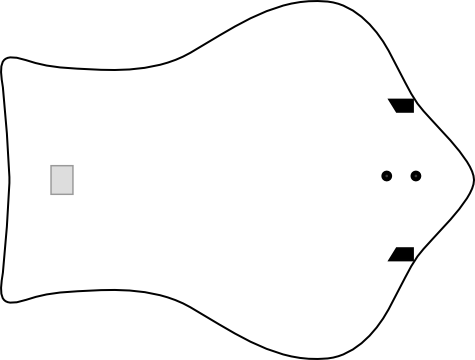
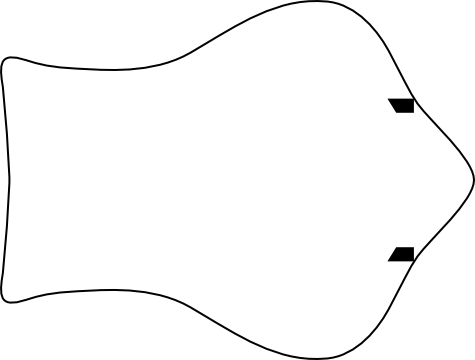
Updated finch layout

Changed region(s): [[0.0884, 0.4583, 0.1768, 0.55], [0.8547, 0.4583, 0.8842, 0.5194], [0.7958, 0.4583, 0.8253, 0.5194]]

diff --git a/java/code/supported-devices/finch/src/edu/cmu/ri/createlab/finch/expressionbuilder/controlpanel/FinchGUI.java b/java/code/supported-devices/finch/src/edu/cmu/ri/createlab/finch/expressionbuilder/controlpanel/FinchGUI.java
@@ -18,6 +18,7 @@ import edu.cmu.ri.createlab.terk.services.obstacle.SimpleObstacleDetectorService
 import edu.cmu.ri.createlab.terk.services.photoresistor.PhotoresistorService;
 import edu.cmu.ri.createlab.terk.services.thermistor.ThermistorService;
 import edu.cmu.ri.createlab.userinterface.util.ImageUtils;
+import edu.cmu.ri.createlab.userinterface.util.SpringLayoutUtilities;
 import edu.cmu.ri.createlab.userinterface.util.SwingUtils;
 import edu.cmu.ri.createlab.util.MultiLineLabel;
 import org.apache.log4j.Logger;
@@ -198,19 +199,23 @@ public final class FinchGUI extends DeviceGUI
 
    private JPanel createFinchGUI(final Map<String, ServiceControlPanel> serviceControlPanelMap, final Map<String, SortedMap<Integer, JCheckBox>> serviceDeviceToggleButtonMap)
       {
-          final JPanel orbsPanel = createVerticalButtonPanel(serviceControlPanelMap.get(FullColorLEDService.TYPE_ID),
+          final JPanel orbsPanel = createAlignedButtonPanel(serviceControlPanelMap.get(FullColorLEDService.TYPE_ID),
                   serviceDeviceToggleButtonMap.get(FullColorLEDService.TYPE_ID),
-                  false,
-                  BACKGROUND_COLOR, BOX_COLOR,
+                  0, false,
                   "image.white");
 
-      final JPanel buzzerPanel = createVerticalButtonPanel(serviceControlPanelMap.get(BuzzerService.TYPE_ID),
-                                                           serviceDeviceToggleButtonMap.get(BuzzerService.TYPE_ID),
-                                                            false,
-                                                           BACKGROUND_COLOR, BOX_COLOR,
-                                                           "image.white");
-      final JPanel motorsPanel = new JPanel();
-      motorsPanel.add(SwingUtils.createLabel("Open Loop Motors Panel"));
+      final JPanel buzzerPanel = createAlignedButtonPanel(serviceControlPanelMap.get(BuzzerService.TYPE_ID),
+                                                          serviceDeviceToggleButtonMap.get(BuzzerService.TYPE_ID),
+                                                          0, false,
+                                                          "image.white");
+      final JPanel motorsPanel1 = new JPanel();
+      motorsPanel1.add(SwingUtils.createLabel("Add Motor 1 Here"));
+      motorsPanel1.setBackground(BOX_COLOR);
+
+      final JPanel motorsPanel2 = new JPanel();
+      motorsPanel2.add(SwingUtils.createLabel("Add Motor 2 Here"));
+      motorsPanel2.setBackground(BOX_COLOR);
+
       /*
       TODO: add this
       final JPanel motorsPanel = createHorizontalButtonPanel(serviceControlPanelMap.get(OpenLoopVelocityControllableMotorService.TYPE_ID),
@@ -233,34 +238,46 @@ public final class FinchGUI extends DeviceGUI
           c.fill = GridBagConstraints.NONE;
           c.gridwidth = 1;
           c.gridheight = 1;
-          c.gridx = 0;
+          c.gridx = 1;
           c.gridy = 0;
-          c.weighty = .4;
-          c.weightx = 1.0;
-          c.anchor = GridBagConstraints.LINE_END;
-          c.insets = new Insets(0, 0, 0, 150);
-          panel.add(motorsPanel, c);
+          c.weighty = .5;
+          c.weightx = .35;
+          c.anchor = GridBagConstraints.FIRST_LINE_START;
+          c.insets = new Insets(30, 0, 0, 0);
+          panel.add(motorsPanel1, c);
 
           c.fill = GridBagConstraints.NONE;
           c.gridwidth = 1;
           c.gridheight = 1;
-          c.gridx = 0;
+          c.gridx = 1;
           c.gridy = 1;
-          c.weighty = .2;
+          c.weighty = .5;
+          c.weightx = .35;
           c.anchor = GridBagConstraints.LINE_END;
-          c.insets = new Insets(0, 0, 0, 150);
+          c.insets = new Insets(0, 0, 0, 10);
           panel.add(orbsPanel, c);
 
           c.fill = GridBagConstraints.NONE;
           c.gridwidth = 1;
           c.gridheight = 1;
           c.gridx = 0;
-          c.gridy = 2;
-          c.weighty = .4;
-          c.anchor = GridBagConstraints.LINE_END;
-          c.insets = new Insets(0, 0, 0, 150);
+          c.gridy = 1;
+          c.weighty = .5;
+          c.weightx = .65;
+          c.anchor = GridBagConstraints.LINE_START;
+          c.insets = new Insets(0, 20, 0, 0);
           panel.add(buzzerPanel, c);
 
+          c.fill = GridBagConstraints.NONE;
+          c.gridwidth = 1;
+          c.gridheight = 1;
+          c.gridx = 1;
+          c.gridy = 2;
+          c.weighty = .5;
+          c.weightx = .35;
+          c.anchor = GridBagConstraints.LAST_LINE_START;
+          c.insets = new Insets(0, 0, 30, 0);
+          panel.add(motorsPanel2, c);
 
           //Create Expression Block
           Dimension block_size = new Dimension(180, 120);
@@ -298,7 +315,7 @@ public final class FinchGUI extends DeviceGUI
 
           panel.setBounds(0, 0, board_size.width, board_size.height);
           finch_image.setBounds(0, 0, board_size.width, board_size.height);
-          expressionBlock.setBounds(50, board_size.height / 2 - block_size.height / 2, block_size.width, block_size.height);
+          expressionBlock.setBounds(130, board_size.height / 2 - block_size.height / 2, block_size.width, block_size.height);
 
 
           finch_image.setName("purpleElement");
@@ -393,32 +410,68 @@ public final class FinchGUI extends DeviceGUI
 
 
                    .addGroup(layout.createParallelGroup(GroupLayout.Alignment.LEADING)
-                           .addComponent(audio)
+                           .addComponent(buzzer)
                            .addComponent(bottomspacer1)
                                    //.addComponent(motor)
                            .addComponent(bottomspacer2)
                            .addComponent(triled)
                            .addComponent(bottomspacer3)
-                           .addComponent(buzzer))
+                           .addComponent(audio))
            );
 
            layout.setHorizontalGroup(layout.createParallelGroup(GroupLayout.Alignment.CENTER)
 
                   
                    .addGroup(layout.createSequentialGroup()
-                           .addComponent(audio)
+                           .addComponent(buzzer)
                            .addComponent(bottomspacer1)
                                    //.addComponent(motor)
                            .addComponent(bottomspacer2)
                            .addComponent(triled)
                            .addComponent(bottomspacer3)
-                           .addComponent(buzzer))
+                           .addComponent(audio))
            );
            icongroup.setName("iconGroup");
            return icongroup;
-       }    
-       
+       }
 
+      private JPanel createAlignedButtonPanel(final ServiceControlPanel serviceControlPanel,
+                                        final SortedMap<Integer, JCheckBox> checkBoxMap,
+                                        final int deviceId,
+                                        final boolean displayId,
+                                        final String imageName)
+       {
+           final JCheckBox checkBox = checkBoxMap.get(deviceId);
+           checkBox.setBackground(BOX_COLOR);
+           checkBox.setAlignmentY(Component.CENTER_ALIGNMENT);
+
+
+           Component numLabel = SwingUtils.createRigidSpacer(0);
+
+           if (displayId){
+               numLabel = SwingUtils.createTinyFontLabel(String.valueOf(deviceId + 1));
+           }
+
+           final JLabel icon = serviceControlPanel.getLabelImage(imageName);
+           final JPanel panel = new JPanel();
+           panel.setBackground(BOX_COLOR);
+
+           panel.setLayout(new BoxLayout(panel, BoxLayout.X_AXIS));
+           panel.add(icon);
+           panel.add(SwingUtils.createRigidSpacer(2));
+           panel.add(SwingUtils.createLabel(serviceControlPanel.getSingleName()));
+           if (displayId){
+           panel.add(SwingUtils.createRigidSpacer(2));
+           panel.add(SwingUtils.createLabel(String.valueOf(deviceId + 1)));
+           }
+           panel.add(SwingUtils.createRigidSpacer(2));
+           panel.add(checkBox);
+           panel.setName("iconTitle");
+
+           panel.setOpaque(true);
+           return panel;
+       }
+       
    public void setStageTitleField(JTextField textfield)
       {
           this.title = textfield;

diff --git a/java/code/core/src/edu/cmu/ri/createlab/expressionbuilder/controlpanel/AbstractServiceControlPanel.java b/java/code/core/src/edu/cmu/ri/createlab/expressionbuilder/controlpanel/AbstractServiceControlPanel.java
@@ -136,6 +136,7 @@ public abstract class AbstractServiceControlPanel implements ServiceControlPanel
       for (int i = 0; i < deviceCount; i++)
          {
          final ServiceControlPanelDevice serviceControlPanelDevice = createServiceControlPanelDevice(service, i);
+         //Todo: Check and see if the boolean above is correct default.
          if (serviceControlPanelDevice != null)
             {
             deviceMap.put(i, serviceControlPanelDevice);
@@ -145,6 +146,7 @@ public abstract class AbstractServiceControlPanel implements ServiceControlPanel
       }
 
    protected abstract ServiceControlPanelDevice createServiceControlPanelDevice(final Service service, final int deviceIndex);
+
 
    /**
     * Fetches the property specified by the given <code>propertyKey</code> from the given <code>service</code> and

diff --git a/java/code/core/src/edu/cmu/ri/createlab/expressionbuilder/controlpanel/services/led/FullColorLEDServiceControlPanel.java b/java/code/core/src/edu/cmu/ri/createlab/expressionbuilder/controlpanel/services/led/FullColorLEDServiceControlPanel.java
@@ -272,8 +272,8 @@ public final class FullColorLEDServiceControlPanel extends AbstractServiceContro
          iconTitle.add(SwingUtils.createLabel(String.valueOf(deviceIndex + 1)));
          iconTitle.setName("iconTitle");
 
-         iconTitle.setAlignmentX(Component.RIGHT_ALIGNMENT);
-         colorPanel.setAlignmentX(Component.CENTER_ALIGNMENT);
+         iconTitle.setAlignmentX(Component.LEFT_ALIGNMENT);
+         colorPanel.setAlignmentX(Component.LEFT_ALIGNMENT);
          panel.setLayout(new BoxLayout(panel, BoxLayout.Y_AXIS));
          panel.add(iconTitle);
          panel.add(colorPanel);

diff --git a/java/code/core/src/edu/cmu/ri/createlab/expressionbuilder/controlpanel/services/analog/AnalogInputsServiceControlPanel.java b/java/code/core/src/edu/cmu/ri/createlab/expressionbuilder/controlpanel/services/analog/AnalogInputsServiceControlPanel.java
@@ -77,7 +77,12 @@ public final class AnalogInputsServiceControlPanel extends AbstractServiceContro
       return RESOURCES.getString("control-panel.title");
       }
 
-   public String getShortDisplayName()
+       public String getSingleName()
+       {
+           return RESOURCES.getString("control-panel.name");
+       }
+
+       public String getShortDisplayName()
       {
       return RESOURCES.getString("control-panel.short-title");
       }

diff --git a/java/code/core/src/edu/cmu/ri/createlab/expressionbuilder/controlpanel/services/obstacle/SimpleObstacleDetectorServiceControlPanel.java b/java/code/core/src/edu/cmu/ri/createlab/expressionbuilder/controlpanel/services/obstacle/SimpleObstacleDetectorServiceControlPanel.java
@@ -81,7 +81,12 @@ public final class SimpleObstacleDetectorServiceControlPanel extends AbstractSer
       return RESOURCES.getString("control-panel.title");
       }
 
-   public String getShortDisplayName()
+       public String getSingleName()
+       {
+           return RESOURCES.getString("control-panel.name");
+       }
+
+       public String getShortDisplayName()
       {
       return RESOURCES.getString("control-panel.short-title");
       }

diff --git a/java/code/core/src/edu/cmu/ri/createlab/expressionbuilder/controlpanel/services/photoresistor/PhotoresistorServiceControlPanel.java b/java/code/core/src/edu/cmu/ri/createlab/expressionbuilder/controlpanel/services/photoresistor/PhotoresistorServiceControlPanel.java
@@ -81,7 +81,12 @@ public final class PhotoresistorServiceControlPanel extends AbstractServiceContr
       return RESOURCES.getString("control-panel.title");
       }
 
-   public String getShortDisplayName()
+       public String getSingleName()
+       {
+           return RESOURCES.getString("control-panel.name");
+       }
+
+       public String getShortDisplayName()
       {
       return RESOURCES.getString("control-panel.short-title");
       }

diff --git a/java/code/supported-devices/hummingbird/src/edu/cmu/ri/createlab/hummingbird/expressionbuilder/controlpanel/services/HummingbirdServiceControlPanel.java b/java/code/supported-devices/hummingbird/src/edu/cmu/ri/createlab/hummingbird/expressionbuilder/controlpanel/services/HummingbirdServiceControlPanel.java
@@ -55,7 +55,12 @@ public final class HummingbirdServiceControlPanel extends AbstractServiceControl
       return RESOURCES.getString("control-panel.title");
       }
 
-   public String getShortDisplayName()
+       public String getSingleName()
+       {
+           return RESOURCES.getString("control-panel.name");
+       }
+
+       public String getShortDisplayName()
       {
       return RESOURCES.getString("control-panel.short-title");
       }

diff --git a/java/code/core/src/edu/cmu/ri/createlab/expressionbuilder/controlpanel/services/audio/AudioServiceControlPanel.java b/java/code/core/src/edu/cmu/ri/createlab/expressionbuilder/controlpanel/services/audio/AudioServiceControlPanel.java
@@ -64,7 +64,12 @@ public final class AudioServiceControlPanel extends AbstractServiceControlPanel
       return RESOURCES.getString("control-panel.title");
       }
 
-   public String getShortDisplayName()
+       public String getSingleName()
+       {
+           return RESOURCES.getString("control-panel.name");
+       }
+
+       public String getShortDisplayName()
       {
       return RESOURCES.getString("control-panel.short-title");
       }

diff --git a/java/code/supported-devices/finch/src/edu/cmu/ri/createlab/finch/expressionbuilder/controlpanel/services/FinchServiceControlPanel.java b/java/code/supported-devices/finch/src/edu/cmu/ri/createlab/finch/expressionbuilder/controlpanel/services/FinchServiceControlPanel.java
@@ -55,7 +55,12 @@ public final class FinchServiceControlPanel extends AbstractServiceControlPanel
       return RESOURCES.getString("control-panel.title");
       }
 
-   public String getShortDisplayName()
+       public String getSingleName()
+       {
+           return RESOURCES.getString("control-panel.name");
+       }
+
+       public String getShortDisplayName()
       {
       return RESOURCES.getString("control-panel.short-title");
       }

diff --git a/java/code/core/src/edu/cmu/ri/createlab/expressionbuilder/controlpanel/services/motor/PositionControllableMotorServiceControlPanel.java b/java/code/core/src/edu/cmu/ri/createlab/expressionbuilder/controlpanel/services/motor/PositionControllableMotorServiceControlPanel.java
@@ -114,7 +114,12 @@ public final class PositionControllableMotorServiceControlPanel extends Abstract
       return RESOURCES.getString("control-panel.short-title");
       }
 
-   public void refresh()
+       public String getSingleName()
+       {
+           return RESOURCES.getString("control-panel.name");
+       }
+
+       public void refresh()
       {
       LOG.debug("PositionControllableMotorServiceControlPanel.refresh()");
 

diff --git a/java/code/core/src/edu/cmu/ri/createlab/expressionbuilder/controlpanel/services/thermistor/ThermistorServiceControlPanel.java b/java/code/core/src/edu/cmu/ri/createlab/expressionbuilder/controlpanel/services/thermistor/ThermistorServiceControlPanel.java
@@ -90,7 +90,12 @@ public final class ThermistorServiceControlPanel extends AbstractServiceControlP
       return RESOURCES.getString("control-panel.short-title");
       }
 
-   public void refresh()
+       public String getSingleName()
+       {
+           return RESOURCES.getString("control-panel.name");
+       }
+
+       public void refresh()
       {
       LOG.debug("ThermistorServiceControlPanel.refresh()");
 

diff --git a/java/code/core/src/edu/cmu/ri/createlab/expressionbuilder/controlpanel/services/accelerometer/AccelerometerServiceControlPanel.java b/java/code/core/src/edu/cmu/ri/createlab/expressionbuilder/controlpanel/services/accelerometer/AccelerometerServiceControlPanel.java
@@ -86,6 +86,11 @@ public final class AccelerometerServiceControlPanel extends AbstractServiceContr
       return RESOURCES.getString("control-panel.title");
       }
 
+    public String getSingleName()
+    {
+       return RESOURCES.getString("control-panel.name");
+    }
+
    public String getShortDisplayName()
       {
       return RESOURCES.getString("control-panel.short-title");
